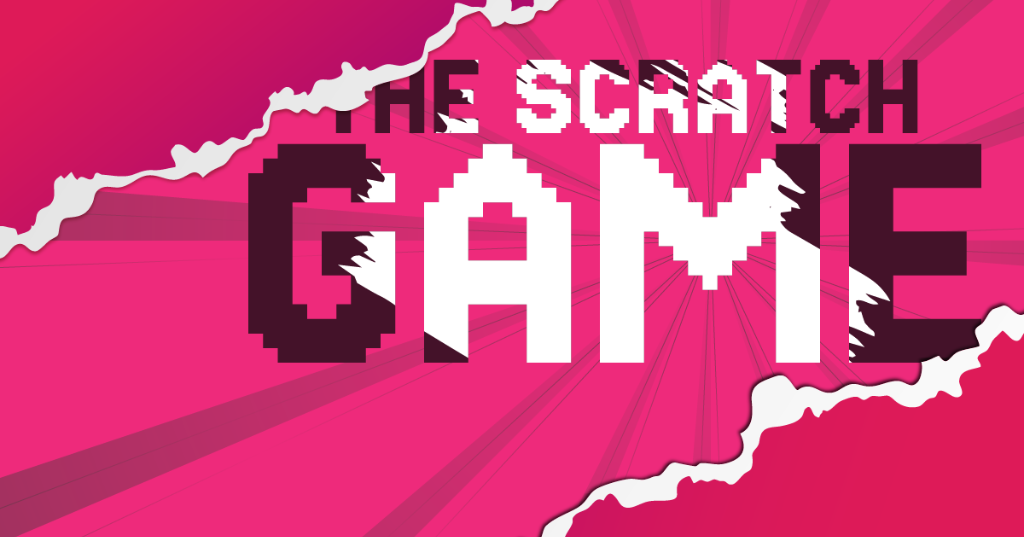
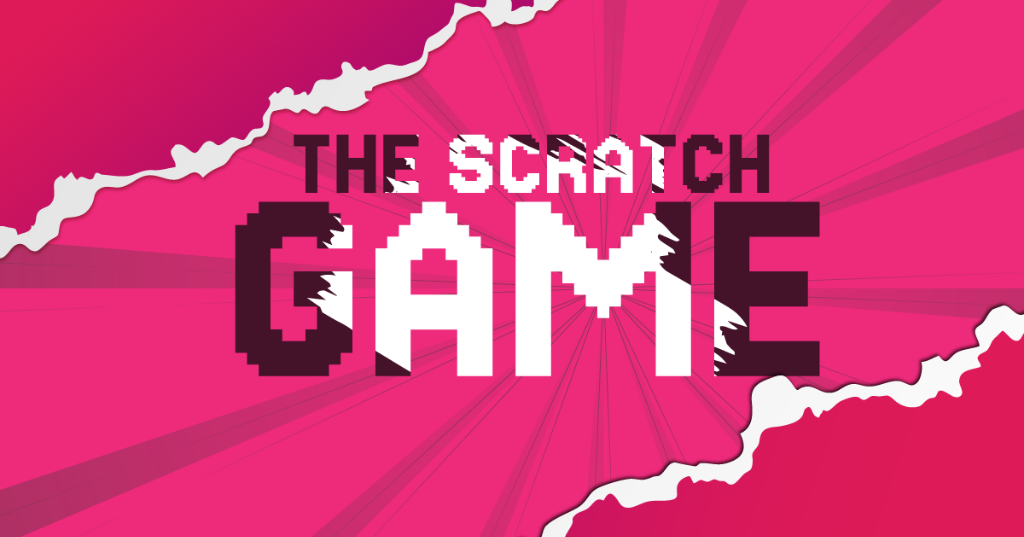
Fix embed preview: new og-image and static fc:miniapp meta tag
- Replaced og-image.png with new user-provided image
- Changed fc:miniapp content to static JSON string for proper SSR
- Added fc:frame:image and fc:frame:button meta tags for embed
- Button should now show 'Scratch and Win' instead of 'Open'

diff --git a/app/layout.tsx b/app/layout.tsx
@@ -24,23 +24,19 @@ export default function RootLayout({
     return (
         <html lang="id" suppressHydrationWarning>
             <head>
+                {/* Farcaster Frame v2 meta tags */}
                 <meta name="fc:frame" content="vNext" />
+                <meta name="fc:frame:image" content="https://neptuneos-scratch-game.vercel.app/og-image.png" />
+                <meta name="fc:frame:button:1" content="Scratch and Win" />
+                <meta name="fc:frame:button:1:action" content="launch_frame" />
+                <meta name="fc:frame:button:1:target" content="https://neptuneos-scratch-game.vercel.app" />
+
+                {/* Mini App embed meta tag */}
                 <meta
                     name="fc:miniapp"
-                    content={JSON.stringify({
-                        version: "next",
-                        imageUrl: "https://neptuneos-scratch-game.vercel.app/og-image.png",
-                        button: {
-                            title: "Scratch and Win",
-                            action: {
-                                type: "launch_frame",
-                                url: "https://neptuneos-scratch-game.vercel.app",
-                                splashImageUrl: "https://neptuneos-scratch-game.vercel.app/splash.png",
-                                splashBackgroundColor: "#0a1628"
-                            }
-                        }
-                    })}
+                    content='{"version":"next","imageUrl":"https://neptuneos-scratch-game.vercel.app/og-image.png","button":{"title":"Scratch and Win","action":{"type":"launch_frame","url":"https://neptuneos-scratch-game.vercel.app","splashImageUrl":"https://neptuneos-scratch-game.vercel.app/splash.png","splashBackgroundColor":"#0a1628"}}}'
                 />
+
                 <link rel="icon" href="/icon.png" type="image/png" />
                 <link rel="apple-touch-icon" href="/icon.png" />
                 <link rel="preconnect" href="https://fonts.googleapis.com" />
